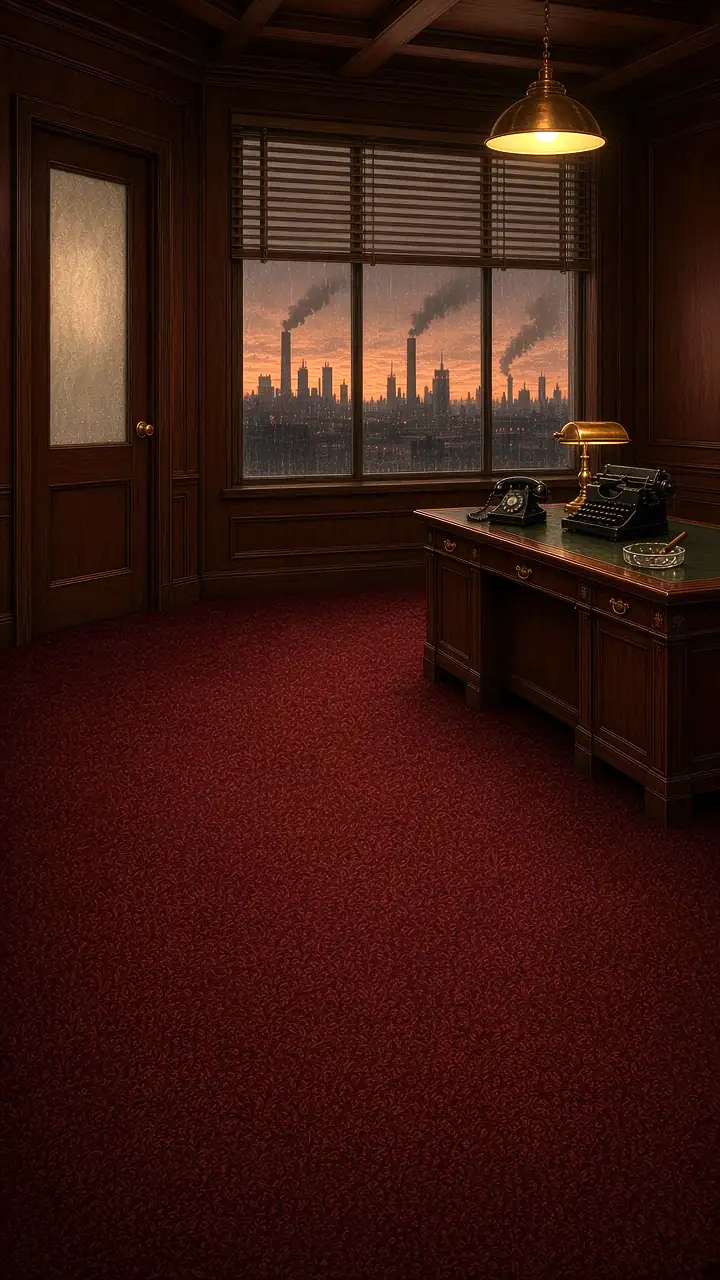
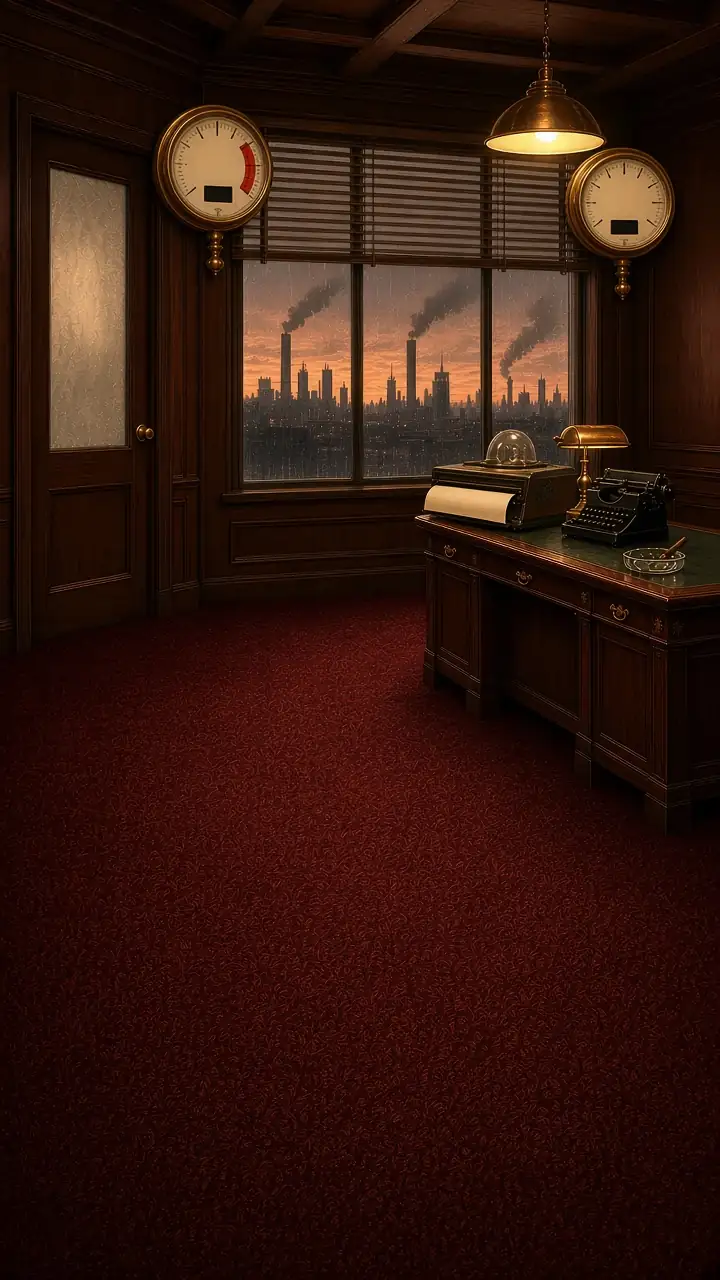
Deploy: meters painted into the office — brass gauge/barometer/ticker (1978), LCD/LED/terminal (2008), inset glass (Today) with live needles and figures; stand points clear the meters; lore: mahogany corner office (source 500517a)

diff --git a/index.html b/index.html
@@ -5297,8 +5297,7 @@ body.era-1 .sr-phone.ringing, body.era-2 .sr-phone.ringing { background: linear-
   .desk .office .of-room.o4 { height: clamp(140px, calc(var(--app-h, 100dvh) * 0.17), 250px) !important; }
 }
 
-/* ===== Office 40s polish: the meters are fixtures painted into the room, one look per era =====
-   size tier from office.js: data-o4sz s (phone strip) / m (tablet strip) / l (side panel). Units are em of the fixture. */
+/* ===== Office 40s polish: per-executive props, door plaque =====
 .o4-prop { position: absolute; width: auto; pointer-events: none; filter: drop-shadow(0 3px 0 rgba(0, 0, 0, .35)); }
 .o4-plaque { position: absolute; display: flex; flex-direction: column; align-items: center; justify-content: center; text-align: center; pointer-events: none; overflow: hidden; line-height: 1.05; }
 .o4-plaque b { font: 800 22px/1.05 var(--font-serif, Georgia, serif); letter-spacing: .04em; text-transform: uppercase; white-space: nowrap; }
@@ -5313,86 +5312,77 @@ body.era-1 .sr-phone.ringing, body.era-2 .sr-phone.ringing { background: linear-
 .o4-stage.o4-open .o4-plaque { opacity: 0; }
 
 /* shared fixture reset */
-.office .of-room.o4 .of-g.of-g { font-size: 10px; display: block !important; padding: 0 !important; border: 0 !important; border-radius: 0 !important; background: none !important; box-shadow: none !important; animation: none !important; min-width: 0; column-gap: 0; }
-.office .of-room.o4[data-o4sz="m"] .of-g.of-g { font-size: 12px; }
-.office .of-room.o4[data-o4sz="l"] .of-g.of-g { font-size: 13px; }
-.office .of-room.o4 .of-g .m-lab { position: absolute; display: block !important; white-space: nowrap; pointer-events: none; }
-.office .of-room.o4 .of-g .m-lab .tok, .office .of-room.o4 .of-g .m-lab > i { display: none; }
-.office .of-room.o4 .of-g .m-name { display: inline !important; font: 800 .62em/1 var(--font-sans, Helvetica, Arial, sans-serif) !important; letter-spacing: .12em; text-transform: uppercase; }
-.office .of-room.o4 .of-g .m-val { display: block; text-align: center; text-shadow: none !important; }
-.office .of-room.o4 .of-g .m-bar { display: block !important; position: absolute; margin: 0; overflow: hidden; }
-.office .of-room.o4 .of-g .m-sub { display: none !important; }
-.office .of-room.o4 .of-g .m-pop { z-index: 2; }
-.office .of-room.o4[data-o4sz="s"] .of-g .m-name { font-size: .55em !important; letter-spacing: .06em; }
 
 /* ---- 1978: brass, enamel and paper ---- */
 /* unrest: a round brass pressure dial on the wall by the door, needle at the value, red sector past 60 */
-.office .of-room.o4[data-o4era="1"] .of-g.m-unrest { width: 4.4em; height: 4.4em; border-radius: 50% !important; border: .32em solid #b98a2e !important;
   background: radial-gradient(circle at 50% 50%, #2a1a0c 0 .28em, transparent .3em), repeating-conic-gradient(from -120deg, #3a2a18 0 1.2deg, transparent 1.2deg 24deg) , conic-gradient(from -120deg, transparent 0 144deg, rgba(190, 40, 20, .75) 144deg 240deg, transparent 240deg), radial-gradient(circle at 40% 35%, #fffaf0, #eadfc2 70%, #cdbb8e) !important;
   -webkit-mask: none; box-shadow: 0 0 0 .1em #5c3f10, .18em .22em 0 rgba(0, 0, 0, .45), inset 0 0 .3em rgba(0, 0, 0, .35) !important; }
-.office .of-room.o4[data-o4era="1"] .of-g.m-unrest .m-bar { left: calc(50% - .07em); bottom: 50%; width: .14em; height: 1.55em; border-radius: .1em; background: #8a1a0e; transform-origin: 50% 100%; transform: rotate(calc(var(--v, 0) * 2.4deg - 120deg)); transition: transform .9s cubic-bezier(.3, 1.6, .5, 1); overflow: visible; }
-.office .of-room.o4[data-o4era="1"] .of-g.m-unrest .m-bar span { display: none; }
-.office .of-room.o4[data-o4era="1"] .of-g.m-unrest .m-val { position: absolute; left: 50%; bottom: .32em; transform: translateX(-50%); padding: .04em .22em; background: #1d140c; color: #fff4d6 !important; border-radius: .12em; font: 800 1.12em/1 ui-monospace, "SF Mono", Menlo, monospace !important; }
-.office .of-room.o4[data-o4era="1"] .of-g.m-unrest .m-lab { left: 50%; top: 100%; transform: translate(-50%, .2em); padding: .08em .35em; background: linear-gradient(#e7c56a, #a97b25); color: #2a1a06 !important; border-radius: .15em; box-shadow: .1em .1em 0 rgba(0, 0, 0, .4); }
-.office .of-room.o4[data-o4era="1"][data-o4sz="s"] .of-g.m-unrest .m-lab { display: none !important; }
-.office .of-room.o4[data-o4era="1"] .of-g.m-unrest.lvl-danger .m-val { color: #ff9b7e !important; }
 /* collapse: a brass barometer plate screwed to the window frame: drum counter + mercury tube */
-.office .of-room.o4[data-o4era="1"] .of-g.m-collapse { width: 6.6em; height: 2.7em; border-radius: .35em !important; border: .12em solid #5c3f10 !important;
   background: radial-gradient(circle at .35em .35em, #5c3f10 .1em, transparent .12em), radial-gradient(circle at calc(100% - .35em) .35em, #5c3f10 .1em, transparent .12em), linear-gradient(180deg, #f0d585, #c8973a 55%, #9c6e22) !important; box-shadow: .15em .2em 0 rgba(0, 0, 0, .45) !important; }
-.office .of-room.o4[data-o4era="1"] .of-g.m-collapse .m-lab { left: .55em; top: .3em; color: #3a2606 !important; }
-.office .of-room.o4[data-o4era="1"] .of-g.m-collapse .m-val { position: absolute; right: .45em; top: .25em; min-width: 1.9em; padding: .05em .2em; background: linear-gradient(180deg, #000, #2a221a 50%, #000); color: #fff4d6 !important; border-radius: .1em; font: 800 1.15em/1 ui-monospace, "SF Mono", Menlo, monospace !important; }
-.office .of-room.o4[data-o4era="1"] .of-g.m-collapse .m-bar { left: .55em; right: .55em; bottom: .38em; height: .42em; border-radius: .25em; background: linear-gradient(180deg, #fffdf2, #d9d2bd) !important; box-shadow: inset 0 0 0 .06em #5c3f10; }
-.office .of-room.o4[data-o4era="1"] .of-g.m-collapse .m-bar span { background: linear-gradient(180deg, #ff6a50, #a8140a) !important; border-radius: .25em; }
-.office .of-room.o4[data-o4era="1"][data-o4sz="s"] .of-g.m-collapse .m-lab { top: .38em; }
 /* cash: a stock-ticker dome feeding paper tape across the desk */
-.o4-tick { position: absolute; z-index: 7; pointer-events: none; white-space: nowrap; font-size: 10px; }
-.of-room[data-o4sz="m"] .o4-tick { font-size: 12px; } .of-room[data-o4sz="l"] .o4-tick { font-size: 13px; }
-.o4-tick b { display: block; font: 800 1.25em/1 ui-monospace, "SF Mono", Menlo, monospace; }
-.of-room[data-o4era="1"] .o4-tick { padding: .18em .5em .18em 1.9em; background: linear-gradient(180deg, #fffbea, #efe3bf); color: #1d140c; transform: rotate(-2.5deg); border-radius: .1em; box-shadow: .14em .18em 0 rgba(0, 0, 0, .45);
   -webkit-mask: linear-gradient(90deg, #000 calc(100% - .35em), transparent calc(100% - .35em)), repeating-linear-gradient(180deg, #000 0 .25em, transparent .25em .4em); -webkit-mask-composite: source-over; }
-.of-room[data-o4era="1"] .o4-tick::before { content: ""; position: absolute; left: .12em; top: 50%; width: 1.5em; height: 1.5em; transform: translateY(-50%); border-radius: 50% 50% .25em .25em; background: radial-gradient(circle at 35% 30%, rgba(255, 255, 255, .85) 0 .15em, transparent .3em), radial-gradient(circle at 50% 60%, #6a4a1c, #2b1d0c); box-shadow: 0 0 0 .12em #c8973a; }
-.of-room[data-o4era="1"] .o4-tick.low { color: #a3170b; }
 
 /* ---- 2008: plastic bezels, LCD and LED ---- */
-.office .of-room.o4[data-o4era="2"] .of-g.m-unrest { width: 4.3em; height: 3.4em; border-radius: .3em !important; border: .12em solid #1a1d20 !important; background: linear-gradient(180deg, #4a5056, #2a2e32) !important; box-shadow: inset 0 .08em 0 rgba(255, 255, 255, .2), .15em .2em 0 rgba(0, 0, 0, .45) !important; }
-.office .of-room.o4[data-o4era="2"] .of-g.m-unrest .m-lab { left: 0; right: 0; top: .22em; text-align: center; color: #d8dde2 !important; }
-.office .of-room.o4[data-o4era="2"] .of-g.m-unrest .m-val { position: absolute; left: .35em; right: .35em; top: 1em; padding: .05em 0; background: linear-gradient(180deg, #a9bf90, #8ea877); color: #15200c !important; border-radius: .1em; box-shadow: inset 0 0 0 .06em #1a1d20; font: 700 1.25em/1 "Courier New", ui-monospace, monospace !important; letter-spacing: .04em; }
-.office .of-room.o4[data-o4era="2"] .of-g.m-unrest .m-bar, .office .of-room.o4[data-o4era="2"] .of-g.m-collapse .m-bar { left: .35em; right: .35em; bottom: .3em; height: .32em; background: repeating-linear-gradient(90deg, #15181a 0 .42em, transparent .42em .52em) !important; border-radius: 0; }
-.office .of-room.o4[data-o4era="2"] .of-g .m-bar span { background: repeating-linear-gradient(90deg, #ffb12e 0 .42em, transparent .42em .52em) !important; border-radius: 0; }
-.office .of-room.o4[data-o4era="2"] .of-g.lvl-danger .m-bar span { background: repeating-linear-gradient(90deg, #ff3b22 0 .42em, transparent .42em .52em) !important; }
-.office .of-room.o4[data-o4era="2"] .of-g.m-unrest.lvl-danger .m-val { animation: o4lcd 1s steps(1) infinite; }
 @keyframes o4lcd { 50% { color: rgba(21, 32, 12, .25); } }
-.office .of-room.o4[data-o4era="2"] .of-g.m-collapse { width: 6.4em; height: 2.5em; border-radius: .2em !important; border: .12em solid #000 !important; background: repeating-linear-gradient(0deg, rgba(255, 255, 255, .04) 0 .1em, transparent .1em .2em), #0b0c0d !important; box-shadow: .15em .2em 0 rgba(0, 0, 0, .45), 0 0 0 .1em #5a6168 !important; }
-.office .of-room.o4[data-o4era="2"] .of-g.m-collapse .m-lab { left: .4em; top: .38em; color: #ffb12e !important; text-shadow: 0 0 .3em rgba(255, 170, 40, .6); }
-.office .of-room.o4[data-o4era="2"] .of-g.m-collapse .m-val { position: absolute; right: .4em; top: .18em; color: #ff4a2a !important; font: 700 1.3em/1 "Courier New", ui-monospace, monospace !important; text-shadow: 0 0 .35em rgba(255, 60, 30, .8) !important; }
-.office .of-room.o4[data-o4era="2"] .of-g.m-collapse .m-bar { bottom: .28em; }
-.of-room[data-o4era="2"] .o4-tick { padding: .3em .55em; background: repeating-linear-gradient(0deg, rgba(255, 255, 255, .05) 0 .1em, transparent .1em .22em), #0c0a06; color: #ffb12e; border: .14em solid #3d4247; border-radius: .25em; text-shadow: 0 0 .35em rgba(255, 170, 40, .7); box-shadow: .14em .18em 0 rgba(0, 0, 0, .45); }
-.of-room[data-o4era="2"] .o4-tick b { font-family: "Courier New", ui-monospace, monospace; font-weight: 700; }
-.of-room[data-o4era="2"] .o4-tick.low { color: #ff4a2a; }
 
 /* ---- Today: emerald glass and gold light ---- */
-.office .of-room.o4[data-o4era="3"] .of-g.m-unrest, .office .of-room.o4[data-o4era="3"] .of-g.m-collapse { border-radius: .45em !important; border: .08em solid rgba(240, 205, 120, .85) !important; background: linear-gradient(160deg, rgba(30, 80, 64, .55), rgba(8, 30, 24, .45)) !important; -webkit-backdrop-filter: blur(2px); backdrop-filter: blur(2px); box-shadow: 0 0 .7em rgba(240, 205, 120, .35), inset 0 0 .5em rgba(160, 255, 220, .18) !important; }
-.office .of-room.o4[data-o4era="3"] .of-g.m-unrest { width: 4em; height: 3.3em; }
-.office .of-room.o4[data-o4era="3"] .of-g.m-collapse { width: 6.2em; height: 2.4em; }
-.office .of-room.o4[data-o4era="3"] .of-g .m-lab { color: #f3dc98 !important; }
-.office .of-room.o4[data-o4era="3"] .of-g.m-unrest .m-lab { left: 0; right: 0; top: .3em; text-align: center; }
-.office .of-room.o4[data-o4era="3"] .of-g.m-unrest .m-val { position: absolute; left: 0; right: 0; top: .95em; color: #fff3cf !important; font: 300 1.55em/1 var(--font-sans, Helvetica, Arial, sans-serif) !important; text-shadow: 0 0 .4em rgba(240, 205, 120, .9) !important; }
-.office .of-room.o4[data-o4era="3"] .of-g.m-collapse .m-lab { left: .5em; top: .45em; }
-.office .of-room.o4[data-o4era="3"] .of-g.m-collapse .m-val { position: absolute; right: .5em; top: .2em; color: #fff3cf !important; font: 300 1.5em/1 var(--font-sans, Helvetica, Arial, sans-serif) !important; text-shadow: 0 0 .4em rgba(240, 205, 120, .9) !important; }
-.office .of-room.o4[data-o4era="3"] .of-g .m-bar { left: .5em; right: .5em; bottom: .35em; height: .14em; border-radius: .1em; background: rgba(240, 205, 120, .22) !important; }
-.office .of-room.o4[data-o4era="3"] .of-g .m-bar span { background: linear-gradient(90deg, #9fffe0, #f3d27a) !important; box-shadow: 0 0 .4em #f3d27a; }
-.office .of-room.o4[data-o4era="3"] .of-g.lvl-danger .m-val { color: #ffb0a0 !important; text-shadow: 0 0 .45em rgba(255, 80, 60, .95) !important; }
-.office .of-room.o4[data-o4era="3"] .of-g.lvl-danger .m-bar span { background: linear-gradient(90deg, #ff9a6a, #ff3b2e) !important; box-shadow: 0 0 .4em #ff3b2e; }
-.of-room[data-o4era="3"] .o4-tick { padding: .25em .6em; color: #fff3cf; border-radius: .4em; background: linear-gradient(180deg, rgba(240, 205, 120, .28), rgba(240, 205, 120, .06)); border: .08em solid rgba(240, 205, 120, .8); text-shadow: 0 0 .45em rgba(240, 205, 120, .95); box-shadow: 0 0 .8em rgba(240, 205, 120, .35); }
-.of-room[data-o4era="3"] .o4-tick::after { content: ""; position: absolute; left: 20%; right: 20%; top: 100%; height: .7em; background: linear-gradient(180deg, rgba(240, 205, 120, .35), transparent); clip-path: polygon(0 0, 100% 0, 70% 100%, 30% 100%); }
-.of-room[data-o4era="3"] .o4-tick b { font-family: var(--font-sans, Helvetica, Arial, sans-serif); font-weight: 400; }
-.of-room[data-o4era="3"] .o4-tick.low { color: #ffb0a0; text-shadow: 0 0 .45em rgba(255, 80, 60, .95); }
-@media (prefers-reduced-motion: reduce) { .office .of-room.o4 .of-g .m-bar { transition: none !important; } .office .of-room.o4 .of-g .m-val { animation: none !important; } }
+/* the plate paints its own view; the legacy window art must not show through the O4 glass */
+
+/* ===== Painted meters: the housings are part of the room plate; only the live needle, number and fill are drawn here, in plate pixels
+   (office.js lays each face onto its painted screen with a matrix3d, so it shares the plate's perspective and is covered by whoever walks past) */
+.o4-face { position: absolute; left: 0; top: 0; transform-origin: 0 0; pointer-events: none; z-index: 2; --v: 0; }
+.o4-face .o4-scr { position: absolute; inset: 0; overflow: hidden; }
+.o4-face .o4-num { position: absolute; white-space: nowrap; line-height: 1; font-variant-numeric: tabular-nums; }
+.o4-face .o4-lab { position: absolute; white-space: nowrap; line-height: 1; letter-spacing: .08em; }
+.o4-face .o4-bar { position: absolute; overflow: hidden; } .o4-face .o4-bar i { position: absolute; left: 0; top: 0; bottom: 0; width: calc(var(--v) * 1%); transition: width .9s ease; }
+.o4-face .o4-ndl { display: none; }
+/* quads: label top-left, figure centred, fill along the bottom */
+.o4-face.quad .o4-num { left: 0; right: 0; top: 50%; transform: translateY(-46%); text-align: center; font-size: min(calc(var(--h) * .56), calc(var(--w) * .34)); }
+.o4-face.quad .o4-lab { left: 6%; top: 7%; font-size: max(9px, calc(var(--h) * .15)); }
+.o4-face.quad .o4-bar { left: 6%; right: 6%; bottom: 8%; height: max(3px, calc(var(--h) * .08)); }
+.o4-face.o4-fC.quad .o4-lab { top: 50%; transform: translateY(-50%); font-size: max(9px, calc(var(--h) * .2)); }
+.o4-face.o4-fC.quad .o4-num { left: auto; right: 5%; text-align: right; font-size: calc(var(--h) * .62); }
+.o4-face.o4-fC.quad .o4-bar { bottom: 6%; height: max(2px, calc(var(--h) * .06)); }
+.o4-face.o4-fK .o4-lab, .o4-face.o4-fK .o4-bar { display: none; }
+.o4-face.o4-fK.quad .o4-num { font-size: min(calc(var(--h) * .62), calc(var(--w) * .3)); }
+/* 1978 brass: a needle over the cream dial, the figure inked on the face; the ticker types cash on its tape */
+.o4-face.dial .o4-scr { border-radius: 50%; }
+.o4-face.dial .o4-ndl { display: block; position: absolute; left: calc(50% - 3px); bottom: 50%; width: 6px; height: calc(var(--r) * .8); border-radius: 3px 3px 1px 1px;
+  background: linear-gradient(90deg, #120b05, #3a2716 55%, #120b05); transform-origin: 50% 100%; transform: rotate(calc(var(--v) * 2.6deg - 130deg));
+  transition: transform 1s cubic-bezier(.3, 1.35, .5, 1); box-shadow: 2px 3px 2px rgba(40, 20, 0, .35); z-index: 2; }
+.o4-face.dial .o4-scr::after { content: ""; position: absolute; left: calc(50% - var(--r) * .11); top: calc(50% - var(--r) * .11); width: calc(var(--r) * .22); height: calc(var(--r) * .22); border-radius: 50%;
+  background: radial-gradient(circle at 35% 30%, #f6dc8e, #a8741f 60%, #5c3a0c); box-shadow: 1px 2px 2px rgba(0, 0, 0, .45); z-index: 3; }
+.o4-face.dial .o4-num { left: 0; right: 0; top: 13%; text-align: center; font: 800 calc(var(--r) * .76)/1 var(--font-serif, Georgia, serif); color: #2b1a0b; text-shadow: 0 0 2px #f3e6c4, 0 0 4px #f3e6c4, 0 0 6px rgba(243, 230, 196, .8); z-index: 4; }
+.o4-face.dial .o4-lab, .o4-face.dial .o4-bar { display: none; }
+.o4-face.dial.lvl-warn .o4-num { color: #7a3d06; } .o4-face.dial.lvl-danger .o4-num { color: #a3170b; }
+.o4-face.dial.lvl-danger .o4-ndl { background: linear-gradient(90deg, #5a0a04, #b2200e 55%, #5a0a04); }
+.o4-stage[data-era="1"] .o4-fK .o4-num { font-family: "Courier New", ui-monospace, monospace; font-weight: 700; color: #241509; text-shadow: 0 0 1px rgba(36, 21, 9, .5); }
+.o4-stage[data-era="1"] .o4-fK.lvl-danger .o4-num { color: #a3170b; }
+/* 2008: LCD wall panel (dark segments), red LED strip in the window rail, amber desk terminal */
+.o4-stage[data-era="2"] .o4-fU .o4-num { font: 700 min(calc(var(--h) * .56), calc(var(--w) * .34))/1 "Courier New", ui-monospace, monospace; color: #b8f0c8; text-shadow: 0 0 6px rgba(120, 255, 170, .55); }
+.o4-stage[data-era="2"] .o4-fU .o4-lab { color: #8fd6a6; font-family: var(--font-sans, Helvetica, Arial, sans-serif); font-weight: 700; }
+.o4-stage[data-era="2"] .o4-fU .o4-bar i { background: repeating-linear-gradient(90deg, #7dffa8 0 8px, transparent 8px 11px); box-shadow: 0 0 6px rgba(120, 255, 170, .6); }
+.o4-stage[data-era="2"] .o4-fC .o4-num { font: 700 calc(var(--h) * .62)/1 "Courier New", ui-monospace, monospace; color: #ff4a2a; text-shadow: 0 0 6px rgba(255, 60, 30, .85), 0 0 14px rgba(255, 60, 30, .4); }
+.o4-stage[data-era="2"] .o4-fC .o4-lab { color: #ffb12e; font-family: var(--font-sans, Helvetica, Arial, sans-serif); font-weight: 700; text-shadow: 0 0 5px rgba(255, 170, 40, .7); }
+.o4-stage[data-era="2"] .o4-fC .o4-bar { right: 42%; } .o4-stage[data-era="2"] .o4-fC .o4-bar i { background: repeating-linear-gradient(90deg, #ffb12e 0 6px, transparent 6px 9px); }
+.o4-stage[data-era="2"] .o4-fK .o4-num { font-family: "Courier New", ui-monospace, monospace; font-weight: 700; color: #ffc04a; text-shadow: 0 0 6px rgba(255, 180, 60, .8); }
+.o4-stage[data-era="2"] .o4-face.lvl-danger .o4-num { color: #ff4a2a; text-shadow: 0 0 7px rgba(255, 60, 30, .9); animation: o4lcd 1s steps(1) infinite; }
+.o4-stage[data-era="2"] .o4-face.lvl-danger .o4-bar i { background: repeating-linear-gradient(90deg, #ff3b22 0 8px, transparent 8px 11px); }
+/* Today: light living in the glass — warm white figures, gold labels, a thin mint-to-gold fill */
+.o4-stage[data-era="3"] .o4-face .o4-num { font-family: var(--font-sans, Helvetica, Arial, sans-serif); font-weight: 300; color: #fff6d8; text-shadow: 0 0 8px rgba(255, 225, 150, .8), 0 0 2px rgba(0, 0, 0, .5); }
+.o4-stage[data-era="3"] .o4-face .o4-lab { color: #f3d27a; font-family: var(--font-sans, Helvetica, Arial, sans-serif); font-weight: 600; text-shadow: 0 0 5px rgba(243, 210, 122, .6); }
+.o4-stage[data-era="3"] .o4-face .o4-bar { background: rgba(255, 255, 255, .1); border-radius: 2px; } .o4-stage[data-era="3"] .o4-face .o4-bar i { background: linear-gradient(90deg, #9fffe0, #f3d27a); box-shadow: 0 0 6px rgba(159, 255, 224, .8); }
+.o4-stage[data-era="3"] .o4-fU .o4-lab { left: 0; right: 0; text-align: center; font-size: calc(var(--w) * .15); }
+.o4-stage[data-era="3"] .o4-face.lvl-danger .o4-num { color: #ffc0b0; text-shadow: 0 0 9px rgba(255, 80, 60, .95); } .o4-stage[data-era="3"] .o4-face.lvl-danger .o4-bar i { background: linear-gradient(90deg, #ff9a6a, #ff3b2e); }
+.o4-face .o4-scr { mix-blend-mode: normal; }
 /* the plate paints its own view; the legacy window art must not show through the O4 glass */
 .of-room.o4 .o4-glass.of-glass { background: none !important; filter: none !important; border-radius: 0; }
-.office .of-room.o4 .of-g.o4-under, .of-room.o4 .o4-tick.o4-under { opacity: .5 !important; }
-.office .of-room.o4 .of-g, .of-room.o4 .o4-tick { transition: opacity .25s; }
-.of-room[data-o4era="1"] .o4-tick { padding-right: .85em; }
+/* the real meters: invisible hit areas over the painted faces (tap / focus for the tooltip; screen readers read them) */
+.office .of-room.o4 .meter.o4-hit { position: absolute !important; z-index: 8; background: none !important; border: 0 !important; box-shadow: none !important; padding: 0 !important; margin: 0 !important; min-width: 0 !important; min-height: 0 !important; border-radius: 8px !important; cursor: help; }
+.office .of-room.o4 .meter.o4-hit > * { visibility: hidden !important; }
+.office .of-room.o4 .meter.o4-hit:focus-visible { outline: 2px solid #f3d27a; outline-offset: 1px; }
+@media (prefers-reduced-motion: reduce) { .o4-face .o4-ndl, .o4-face .o4-bar i { transition: none !important; } .o4-face .o4-num { animation: none !important; } }
+.o4-stage[data-era="1"] .o4-fK .o4-num, .o4-stage[data-era="2"] .o4-fK .o4-num { letter-spacing: -.06em; }
 </style>
   <script>
   /* Visible viewport height: prefer visualViewport so a Safari toolbar
@@ -13982,11 +13972,14 @@ body.era-1 .sr-phone.ringing, body.era-2 .sr-phone.ringing { background: linear-
   var OFX_FAR = { senate: 1, crash: 1, keys: 1 };
   var OFX_VEH = { car: [1, 2, 3].map(function (e) { return '<img src="assets/office/veh-car-e' + e + '.webp" alt="" draggable="false">'; }),
     air: [1, 2, 3].map(function (e) { return '<img src="assets/office/veh-air-e' + e + '.webp" alt="" draggable="false">'; }) };
+  /* full-body door poses (the fight art is framed to the old 3/4 crop for some opponents) */
+  /* Milestone B: full-body door art per opponent (opp-<id>-door.webp). Held until the restyled opponents ship; empty = door scene uses the idle art. */
+  var OPP_DOOR = {}; /* Milestone B list: "ashby benny brennan crowe dana delacroix dunn gil grace gray hale harrow honoria june mickey mina moretti odell okafor pip pops rosa sorel theo ticker varga" */
   LD.officeEntrance = function (state) {
     var fg = state && state.fy && state.fy.fight; if (!fg) return null;
     var F = LD.fightFace(fg), venue = LD.fightVenue(fg), era = Math.max(1, Math.min(3, LD.eraOf ? LD.eraOf(state) : 3));
     var away = venue === "away", air = away && !!OFX_FAR[F.room];
-    return { away: away, air: air, era: era, who: F.who, place: F.place || "", opp: "assets/fight/opp-" + F.art + "-idle.webp", ar: F.ar || ART_AR[F.art] || 0.6,
+    return { away: away, air: air, era: era, who: F.who, place: F.place || "", opp: "assets/fight/opp-" + F.art + (OPP_DOOR[F.art] ? "-door" : "-idle") + ".webp", ar: F.ar || ART_AR[F.art] || 0.6,
       veh: away ? OFX_VEH[air ? "air" : "car"][era - 1] : "", back: "assets/fight/back-" + execArt(state.executiveId) + ".webp" };
   };
   /* The Gallery: a 7-notch crowd meter between you and them. */
@@ -14247,31 +14240,34 @@ body.era-1 .sr-phone.ringing, body.era-2 .sr-phone.ringing { background: linear-
   if (typeof document === "undefined") return;
   var BASE = "assets/office40/";
   /* Plate geometry, in plate pixels. L = 1280x720 (wide boxes), P = 720x1280 (tall side panels). */
+  /* The meters are painted into each plate (a wall gauge / panel by the door, a gauge / readout in the window frame, a ticker / terminal / glass on the desk).
+     Painted faces in plate pixels: dial = [cx, cy, r] + counter window; quad = TL, TR, BR, BL of the screen. Code draws only the live needle, number and fill. */
+  var FACES = {"e1-L":{"U":{"dial":[345.6,109.3,64.5],"win":[326.6,131.0,365.6,153.1]},"C":{"dial":[809.7,234.0,60.0],"win":[790.6,255.0,829.6,276.0]},"K":{"quad":[[697.2,345.0],[832.2,342.5],[832.2,392.5],[697.2,395.0]]}},"e1-P":{"U":{"dial":[219.4,172.4,44.6],"win":[204.0,186.0,232.0,203.0]},"C":{"dial":[621.8,205.2,36.0],"win":[611.0,220.0,638.0,234.0]},"K":{"quad":[[428.0,486.0],[511.0,485.0],[511.0,513.0],[428.0,514.0]]}},"e2-L":{"U":{"quad":[[318.6,72.3],[441.0,72.3],[441.0,147.9],[318.6,147.9]]},"C":{"quad":[[541.7,73.6],[777.0,73.6],[777.0,123.0],[541.7,123.0]]},"K":{"quad":[[677.9,285.4],[778.0,285.4],[778.0,347.8],[675.3,347.8]]}},"e2-P":{"U":{"quad":[[224.0,109.0],[317.0,109.0],[317.0,165.0],[224.0,165.0]]},"C":{"quad":[[360.0,99.0],[512.0,99.0],[512.0,146.0],[360.0,146.0]]},"K":{"quad":[[370.8,406.0],[459.2,406.0],[459.2,455.5],[370.8,455.5]]}},"e3-L":{"U":{"quad":[[289.9,69.5],[357.2,79.6],[360.2,195.0],[291.9,184.0]]},"C":{"quad":[[532.7,51.4],[785.2,53.5],[784.0,108.9],[534.4,103.7]]},"K":{"quad":[[704.9,313.2],[805.4,314.5],[788.9,368.8],[688.0,363.4]]}},"e3-P":{"U":{"quad":[[66.0,58.0],[155.0,84.0],[160.0,158.0],[67.0,131.0]]},"C":{"quad":[[302.4,113.5],[486.0,115.0],[485.0,169.0],[303.0,164.0]]},"K":{"quad":[[431.6,522.0],[498.4,528.0],[490.3,566.8],[421.5,560.7]]}}};
   var ROOMS = {
     "e1-L": { w: 1280, h: 720, hk: [0.72, 0], door: [81, 37, 188, 475], glass: [406, 181, 375, 181],
       occ: [[690, 372], [1280, 386], [1280, 650], [1120, 668], [950, 612], [700, 578]], deskY: 545, tick: [800, 445],
-      mu: [335, 225], mc: [520, 362], pr: [738, 392, 112], pl: [38, 92, 112, 72],
-      S: { door: [330, 545], desk: [930, 538], deskEntry: [640, 525], window: [600, 495], hatch: [470, 600], hatchAp: [320, 612], p1: [380, 600], p2: [640, 612], opp: [178, 512], oppIn: [270, 540] } },
+      mu: [335, 225], mc: [520, 362], pr: [1212, 402, 100], pl: [38, 92, 112, 72],
+      S: { door: [330, 545], desk: [945, 538], deskEntry: [640, 525], window: [600, 495], hatch: [470, 600], hatchAp: [320, 612], p1: [380, 600], p2: [585, 612], opp: [178, 512], oppIn: [270, 540] } },
     "e2-L": { w: 1280, h: 720, hk: [0.745, 0], door: [50, 25, 244, 531], glass: [344, 56, 531, 388],
       occ: [[655, 336], [1000, 352], [1215, 400], [1215, 600], [1060, 640], [960, 645], [690, 550]], deskY: 560, tick: [830, 458],
-      mu: [318, 250], mc: [500, 444], pr: [712, 350, 96], pl: [40, 175, 165, 64],
-      S: { door: [350, 590], desk: [850, 555], deskEntry: [600, 545], window: [560, 520], hatch: [455, 608], hatchAp: [300, 620], p1: [380, 612], p2: [640, 622], opp: [172, 556], oppIn: [260, 580] } },
+      mu: [318, 250], mc: [500, 444], pr: [1168, 405, 80], pl: [40, 175, 165, 64],
+      S: { door: [350, 590], desk: [850, 555], deskEntry: [600, 545], window: [560, 520], hatch: [455, 608], hatchAp: [300, 620], p1: [380, 612], p2: [555, 622], opp: [172, 556], oppIn: [260, 580] } },
     "e3-L": { w: 1280, h: 720, hk: [0.70, 0], door: [106, 50, 169, 431], glass: [369, 31, 493, 381],
       occ: [[675, 360], [1210, 385], [1210, 560], [1000, 590], [700, 480]], deskY: 520, tick: [850, 435],
-      mu: [322, 230], mc: [500, 396], pr: [728, 376, 92], pl: [30, 118, 110, 40],
-      S: { door: [330, 515], desk: [900, 515], deskEntry: [620, 505], window: [600, 470], hatch: [455, 592], hatchAp: [310, 604], p1: [360, 590], p2: [640, 600], opp: [190, 481], oppIn: [270, 505] } },
+      mu: [322, 230], mc: [500, 396], pr: [1160, 392, 84], pl: [30, 118, 110, 40],
+      S: { door: [442, 530], desk: [900, 515], deskEntry: [620, 505], window: [600, 470], hatch: [455, 592], hatchAp: [310, 604], p1: [360, 590], p2: [605, 600], opp: [190, 481], oppIn: [270, 505] } },
     "e1-P": { w: 720, h: 1280, hk: [0.62, 10], door: [12, 106, 151, 506], glass: [244, 250, 325, 212],
       occ: [[412, 503], [720, 515], [720, 820], [650, 790], [480, 705], [420, 670]], deskY: 680, tick: [520, 585],
-      mu: [190, 205], mc: [405, 252, 1], pr: [438, 508, 84], pl: [36, 88, 86, 62],
-      S: { door: [235, 650], desk: [575, 675], deskEntry: [345, 700], window: [400, 650], hatch: [330, 950], hatchAp: [160, 960], p1: [210, 830], p2: [470, 900], opp: [88, 612], oppIn: [160, 660] } },
+      mu: [190, 205], mc: [405, 252, 1], pr: [300, 484, 68], pl: [36, 88, 86, 62],
+      S: { door: [235, 650], desk: [545, 675], deskEntry: [335, 700], window: [400, 650], hatch: [330, 950], hatchAp: [160, 960], p1: [170, 830], p2: [250, 1060], opp: [88, 612], oppIn: [160, 660] } },
     "e2-P": { w: 720, h: 1280, hk: [0.66, 10], door: [25, 50, 163, 575], glass: [222, 87, 353, 425],
       occ: [[365, 478], [600, 470], [720, 490], [720, 700], [590, 728], [385, 622]], deskY: 640, tick: [480, 555],
-      mu: [200, 170], mc: [380, 102, 0], pr: [396, 492, 78], pl: [30, 175, 112, 58],
-      S: { door: [250, 670], desk: [560, 635], deskEntry: [330, 680], window: [400, 640], hatch: [330, 950], hatchAp: [160, 960], p1: [210, 830], p2: [470, 900], opp: [106, 625], oppIn: [180, 670] } },
+      mu: [200, 170], mc: [380, 102, 0], pr: [268, 522, 62], pl: [30, 175, 112, 58],
+      S: { door: [250, 670], desk: [560, 635], deskEntry: [330, 680], window: [290, 580], hatch: [330, 950], hatchAp: [160, 960], p1: [170, 830], p2: [195, 1060], opp: [106, 625], oppIn: [180, 670] } },
     "e3-P": { w: 720, h: 1280, hk: [0.60, 10], door: [19, 144, 106, 531], glass: [187, 87, 388, 513],
       occ: [[398, 560], [720, 575], [720, 790], [620, 785], [410, 700]], deskY: 720, tick: [505, 615],
-      mu: [150, 205], mc: [330, 150, 0], pr: [440, 578, 72], pl: [14, 122, 74, 30],
-      S: { door: [205, 710], desk: [585, 715], deskEntry: [330, 745], window: [390, 700], hatch: [330, 960], hatchAp: [160, 970], p1: [210, 860], p2: [470, 930], opp: [72, 675], oppIn: [140, 720] } }
+      mu: [150, 205], mc: [330, 150, 0], pr: [300, 602, 62], pl: [14, 122, 74, 30],
+      S: { door: [205, 710], desk: [585, 715], deskEntry: [330, 745], window: [390, 700], hatch: [330, 960], hatchAp: [160, 970], p1: [170, 860], p2: [250, 1070], opp: [72, 675], oppIn: [140, 720] } }
   };
   var IDS = ["mara", "reid", "julian", "cassius", "imani", "soren"];
   var SAY = {
@@ -14303,8 +14299,10 @@ body.era-1 .sr-phone.ringing, body.era-2 .sr-phone.ringing { background: linear-
     O.prop = el("img", "o4-prop", w); O.prop.alt = ""; O.prop.draggable = false;
     O.knock = el("span", "o4-knock", s);
     O.hatch = el("div", "o4-hatch", w); O.hglow = el("i", "o4-hglow", O.hatch);
-    /* cash readout on the desk: screen space so the figure stays readable on phones */
-    O.tick = el("span", "o4-tick", s); O.tickV = el("b", "", O.tick);
+    /* live faces on the painted fixtures: U (unrest) and C (collapse) on wall / window, so people pass in front; K (cash) on the desk */
+    /* the painted housing is re-laid over the window glass (the city view is its own layer) so the glass never hides a fixture */
+    O.patch = {}; ["U", "C", "K"].forEach(function (k) { O.patch[k] = el("div", "o4-occ o4-patch", w); });
+    O.face = {}; ["U", "C", "K"].forEach(function (k) { var f = el("div", "o4-face o4-f" + k, w); f.setAttribute("aria-hidden", "true"); f.innerHTML = '<span class="o4-scr"><i class="o4-ndl"></i><b class="o4-num"></b><small class="o4-lab"></small><span class="o4-bar"><i></i></span></span>'; O.face[k] = f; });
     O.occ = el("div", "o4-occ", w);
     O.ex = el("div", "o4-ex", w); O.shadow = el("i", "o4-shadow", O.ex); O.body = el("div", "o4-body", O.ex); O.spr = el("i", "o4-spr", O.body);
     O.bub = el("span", "o4-bub", s);
@@ -14331,6 +14329,7 @@ body.era-1 .sr-phone.ringing, body.era-2 .sr-phone.ringing { background: linear-
     box(O.hatch, [R.S.hatch[0] - hw / 2, R.S.hatch[1] - hh / 2 - (lay === "P" ? 30 : 0), hw, hh]);
     O.hatch.style.backgroundImage = "url(" + BASE + "hatch-" + exec + ".webp)";
     O.prop.src = BASE + "props/" + exec + "-e" + era + ".webp";
+    setFaces(FACES[rk] || {}, url);
     O.prop.style.left = R.pr[0] + "px"; O.prop.style.top = (R.pr[1] - R.pr[2]) + "px"; O.prop.style.height = R.pr[2] + "px";
     box(O.plaque, R.pl);
     var EX = LD.execById ? LD.execById(exec) : null;
@@ -14349,14 +14348,16 @@ body.era-1 .sr-phone.ringing, body.era-2 .sr-phone.ringing { background: linear-
     var W = room.clientWidth, H = room.clientHeight; if (!W || !H) return;
     var lay = W / H < 1 ? "P" : "L";
     if (O.R && O.rk.slice(-1) !== lay) { setEra(O.era, O.exec, lay); }
-    var R = O.R, s = H / R.h;
-    /* very wide strips (tablet portrait): zoom in a little, trimming ceiling and floor edge but never the desk-height head or the hatch */
-    if (lay === "L" && R.w * s < W) s = Math.min(W / R.w, H / (R.h * 0.74));
+    var R = O.R, s = H / R.h, ft = faceTop(), hb = Math.min(R.h, R.S.hatch[1] + 60);
+    /* very wide strips (tablet portrait): zoom in a little, trimming ceiling and floor edge but never the painted meters, the head or the hatch */
+    if (lay === "L" && R.w * s < W) s = Math.min(W / R.w, H / (hb - ft));
     /* wide side panels (desktop): fill the width and trim the empty floor at the bottom rather than show edge strips */
     if (lay === "P" && R.w * s < W) s = Math.min(W / R.w, H / (R.h * 0.8));
     var pw = R.w * s, ph = R.h * s, ox;
     if (pw > W) ox = lay === "P" ? -(pw - W) * 0.3 : -(pw - W) / 2; else ox = (W - pw) / 2;
     var oy = H - ph; oy = oy > 0 ? oy / 2 : oy * (lay === "P" ? 0.3 : 0.6);
+    /* the painted meters must stay in view: crop the floor rather than the ceiling band they hang in */
+    if (oy < 0 && -oy > ft * s) oy = Math.max(H - ph, -ft * s);
     O.s = s; O.ox = ox; O.oy = oy;
     O.world.style.transform = "translate(" + ox.toFixed(1) + "px," + oy.toFixed(1) + "px) scale(" + s.toFixed(4) + ")";
     var fw = Math.max(0, ox);
@@ -14371,44 +14372,64 @@ body.era-1 .sr-phone.ringing, body.era-2 .sr-phone.ringing { background: linear-
     placeMeters(room);
     draw();
   }
-  function px(v, axis) { return axis === "x" ? O.ox + v * O.s : O.oy + v * O.s; }
-  /* The meters are fixtures of the room: unrest hangs on the wall by the door, collapse is mounted on the window frame,
-     cash sits on the desk. Anchors are plate points; the fixtures stay screen-sized so the numbers read on phones. */
-  function placeMeters(room) {
-    var R = O.R, W = room.clientWidth, H = room.clientHeight;
-    var u = room.querySelector(".m-unrest"), c = room.querySelector(".m-collapse"), t = O.tick;
-    room.dataset.o4sz = H < 200 ? "s" : W < 420 && H < 420 ? "m" : H < 420 ? "m" : "l";
-    if (O.era) room.dataset.o4era = O.era;
-    var placed = [];
-    function put(m, x, y, ax, ay, setImp) {
-      if (!m) { placed.push(null); return; } var mw = m.offsetWidth || 60, mh = m.offsetHeight || 24;
-      var l = Math.max(3, Math.min(W - mw - 3, x - mw * ax)), tp = Math.max(3, Math.min(H - mh - 3, y - mh * ay));
-      /* never stack two fixtures: slide sideways off anything already placed */
-      for (var i = 0; i < placed.length; i++) { var q = placed[i]; if (!q) continue;
-        if (l < q[0] + q[2] + 4 && q[0] < l + mw + 4 && tp < q[1] + q[3] + 2 && q[1] < tp + mh + 2) {
-          var right = q[0] + q[2] + 5; l = right + mw <= W - 3 ? right : Math.max(3, q[0] - mw - 5);
-          if (l < q[0] + q[2] + 4 && q[0] < l + mw + 4) tp = Math.min(H - mh - 3, q[1] + q[3] + 4);
-        } }
-      placed.push([l, tp, mw, mh]);
-      var imp = setImp ? "important" : "";
-      m.style.setProperty("left", Math.round(l) + "px", imp); m.style.setProperty("top", Math.round(tp) + "px", imp);
-      if (setImp) { m.style.setProperty("right", "auto", "important"); m.style.setProperty("bottom", "auto", "important"); m.style.setProperty("transform", "none", "important"); }
-    }
-    put(u, px(R.mu[0], "x"), px(R.mu[1], "y"), 0.5, 0.5, true);
-    put(c, px(R.mc[0], "x"), px(R.mc[1], "y"), 0.5, R.mc[2] != null ? R.mc[2] : 0.75, true);
-    put(t, px(R.tick[0], "x"), px(R.tick[1], "y"), 0.5, 0.5, false);
-    O.fx = [u, c, t].map(function (m, i) { return m && placed[i] ? { m: m, r: placed[i] } : null; }).filter(Boolean);
-    under();
+  /* top of the highest painted meter housing (plate px), with its bezel */
+  function faceTop() {
+    var FS = FACES[O.rk] || {}, t = O.R.h;
+    ["U", "C"].forEach(function (k) { var g = FS[k]; if (!g) return; t = Math.min(t, g.dial ? g.dial[1] - g.dial[2] * 1.3 : Math.min.apply(null, g.quad.map(function (p) { return p[1]; })) - 20); });
+    return Math.max(0, t - 6);
   }
-  /* a fixture fades while the executive (or a visitor in the doorway) is behind it, so nobody is hidden by a meter */
-  function under() {
-    if (!O.fx || !O.R || !O.s) return;
-    var st = O.st, h = heightAt(st.y), rs = [];
-    /* the visible body: a little narrower than the sprite box; behind the desk only the upper half shows */
-    var behind = st.y < O.R.deskY && st.x > O.R.S.deskEntry[0] - 10, bot = behind ? st.y - h * 0.5 : st.y;
-    if (!st.hidden) rs.push([px(st.x - h * 0.15, "x"), px(st.y - h * 0.94, "y"), h * 0.3 * O.s, (bot - (st.y - h * 0.94)) * O.s]);
-    if (O.stage.classList.contains("o4-in") && O.opp.style.width) { var b = O.opp.getBoundingClientRect(), a = O.stage.getBoundingClientRect(); rs.push([b.left - a.left, b.top - a.top, b.width, b.height * 0.6]); }
-    O.fx.forEach(function (f) { var q = f.r, hit = rs.some(function (r) { return r[0] < q[0] + q[2] && q[0] < r[0] + r[2] && r[1] < q[1] + q[3] && q[1] < r[1] + r[3]; }); f.m.classList.toggle("o4-under", hit); });
+  function px(v, axis) { return axis === "x" ? O.ox + v * O.s : O.oy + v * O.s; }
+  /* rect (0,0,w,h) -> quad as a CSS matrix3d, so a face's content lies in the painting's perspective */
+  function quadMatrix(w, h, q) {
+    var x0 = q[0][0], y0 = q[0][1], x1 = q[1][0], y1 = q[1][1], x2 = q[2][0], y2 = q[2][1], x3 = q[3][0], y3 = q[3][1];
+    var dx1 = x1 - x2, dx2 = x3 - x2, dy1 = y1 - y2, dy2 = y3 - y2, sx = x0 - x1 + x2 - x3, sy = y0 - y1 + y2 - y3;
+    var g = 0, hh = 0, den = dx1 * dy2 - dx2 * dy1;
+    if (Math.abs(sx) > 1e-6 || Math.abs(sy) > 1e-6) { g = (sx * dy2 - dx2 * sy) / den; hh = (dx1 * sy - sx * dy1) / den; }
+    var a = x1 - x0 + g * x1, b = x3 - x0 + hh * x3, d = y1 - y0 + g * y1, e = y3 - y0 + hh * y3;
+    a /= w; d /= w; g /= w; b /= h; e /= h; hh /= h;
+    return "matrix3d(" + [a, d, 0, g, b, e, 0, hh, 0, 0, 1, 0, x0, y0, 0, 1].map(function (v) { return +v.toFixed(6); }).join(",") + ")";
+  }
+  function setFaces(FS, url) {
+    ["U", "C", "K"].forEach(function (k) {
+      var f = O.face[k], g = FS[k], pt = O.patch[k]; pt.style.display = f.style.display = g ? "" : "none"; if (!g) return;
+      pt.style.backgroundImage = "url(" + url + ")"; pt.style.width = O.R.w + "px"; pt.style.height = O.R.h + "px"; pt.style.zIndex = k === "K" ? 4 : 2;
+      if (g.dial) pt.style.clipPath = "circle(" + (g.dial[2] * 1.3).toFixed(1) + "px at " + g.dial[0] + "px " + g.dial[1] + "px)";
+      else { var cx = 0, cy = 0; g.quad.forEach(function (p) { cx += p[0] / 4; cy += p[1] / 4; });
+        var bw = Math.max.apply(null, g.quad.map(function (p) { return p[0]; })) - Math.min.apply(null, g.quad.map(function (p) { return p[0]; })), bh = Math.max.apply(null, g.quad.map(function (p) { return p[1]; })) - Math.min.apply(null, g.quad.map(function (p) { return p[1]; }));
+        var ex = 1 + 36 / bw, ey = 1 + 36 / bh;
+        pt.style.clipPath = "polygon(" + g.quad.map(function (p) { return (cx + (p[0] - cx) * ex).toFixed(1) + "px " + (cy + (p[1] - cy) * ey).toFixed(1) + "px"; }).join(",") + ")"; }
+      f.classList.toggle("dial", !!g.dial); f.classList.toggle("quad", !g.dial);
+      if (g.dial) {
+        f._wh = null; var r = g.dial[2]; f.style.width = f.style.height = (2 * r) + "px"; f.style.transform = "translate(" + (g.dial[0] - r) + "px," + (g.dial[1] - r) + "px)";
+        f.style.setProperty("--r", r + "px");
+      } else {
+        var q = g.quad, w = Math.round(Math.hypot(q[1][0] - q[0][0], q[1][1] - q[0][1])), h = Math.round(Math.hypot(q[3][0] - q[0][0], q[3][1] - q[0][1]));
+        f.style.width = w + "px"; f.style.height = h + "px"; f.style.transform = quadMatrix(w, h, q); f.style.setProperty("--h", h + "px"); f.style.setProperty("--w", w + "px"); f._wh = [w, h];
+      }
+    });
+  }
+  function setFace(k, val, txt, lvl, label) {
+    var f = O.face && O.face[k]; if (!f) return;
+    var n = f.querySelector(".o4-num"); n.textContent = txt;
+    /* quads: the figure takes as much of the painted screen as it can (phones), by its length */
+    if (f.classList.contains("quad") && f._wh) { var w = f._wh[0], h = f._wh[1], len = Math.max(2, txt.length), sp = k === "C" ? [0.92, 0.52, 0.62] : k === "K" ? [0.72, 0.98, 0.56] : [0.66, 0.92, 0.62];
+      n.style.fontSize = Math.min(h * sp[0], w * sp[1] / (len * sp[2])).toFixed(1) + "px"; } else n.style.fontSize = ""; f.querySelector(".o4-lab").textContent = label || "";
+    f.style.setProperty("--v", Math.max(0, Math.min(100, val)));
+    f.classList.remove("lvl-ok", "lvl-warn", "lvl-danger"); f.classList.add("lvl-" + (lvl || "ok"));
+  }
+  /* the real meters stay in the DOM for taps, focus and screen readers: an invisible hit area over each painted face */
+  function placeMeters(room) {
+    room.dataset.o4sz = room.clientHeight < 200 ? "s" : room.clientHeight < 420 ? "m" : "l";
+    if (O.era) room.dataset.o4era = O.era;
+    var a = room.getBoundingClientRect();
+    [[room.querySelector(".m-unrest"), "U"], [room.querySelector(".m-collapse"), "C"], [room.querySelector(".m-cash"), "K"]].forEach(function (p) {
+      var m = p[0], f = O.face[p[1]]; if (!m || !f || f.style.display === "none") return;
+      var b = f.getBoundingClientRect(), pad = 4;
+      m.classList.add("o4-hit");
+      m.style.setProperty("left", Math.round(b.left - a.left - pad) + "px", "important"); m.style.setProperty("top", Math.round(b.top - a.top - pad) + "px", "important");
+      m.style.setProperty("width", Math.round(b.width + 2 * pad) + "px", "important"); m.style.setProperty("height", Math.round(b.height + 2 * pad) + "px", "important");
+      m.style.setProperty("right", "auto", "important"); m.style.setProperty("bottom", "auto", "important"); m.style.setProperty("transform", "none", "important");
+    });
   }
   function frame(p) { var F = O.A && O.A.f; if (!F) return null; return F[p] || F.idle; }
   function draw() {
@@ -14423,11 +14444,10 @@ body.era-1 .sr-phone.ringing, body.era-2 .sr-phone.ringing { background: linear-
     O.ex.style.transform = "translate(" + st.x.toFixed(1) + "px," + st.y.toFixed(1) + "px)";
     O.shadow.style.width = (h * 0.32).toFixed(0) + "px"; O.shadow.style.height = (h * 0.05).toFixed(0) + "px";
     var behind = st.y < O.R.deskY && st.x > O.R.S.deskEntry[0] - 10;
-    O.ex.style.zIndex = behind ? 3 : 6; O.occ.style.zIndex = 4; O.prop.style.zIndex = 5;
+    O.ex.style.zIndex = behind ? 3 : 6; O.occ.style.zIndex = 4; O.prop.style.zIndex = 5; O.face.K.style.zIndex = 5;
     O.ex.style.opacity = st.hidden ? "0" : "";
     O.ex.dataset.pose = st.pose;
     if (O.bub.classList.contains("on")) placeBub();
-    under();
   }
   function setPose(p) { O.st.pose = p; draw(); }
   function poseFor() { return O.mood === "panic" ? "panic" : O.mood === "nervous" ? "nervous" : "idle"; }
@@ -14500,9 +14520,11 @@ body.era-1 .sr-phone.ringing, body.era-2 .sr-phone.ringing { background: linear-
     O.ex.setAttribute("aria-hidden", "true");
     room.setAttribute("aria-label", (LD.execById ? LD.execById(state.executiveId).name : "") + ", " + ({ confident: "confident", nervous: "nervous", panic: "panicking" })[O.mood]);
     /* meters on props */
-    O.tickV.textContent = LD.formatMoney ? LD.formatMoney(state.cash) : "$" + state.cash + "M";
+    var fm = LD.formatMoney || function (v) { return "$" + v + "M"; }, lv = LD.resLevel || function () { return "ok"; };
+    setFace("U", state.unrest, String(state.unrest), lv("unrest", state.unrest), "UNREST");
+    setFace("C", state.collapse, String(state.collapse), lv("collapse", state.collapse), "COLLAPSE");
+    setFace("K", Math.min(100, state.cash), fm(state.cash), lv("cash", state.cash), "");
     room.dataset.o4era = era;
-    O.tick.classList.toggle("low", state.cash < 5);
     var door = LD.doorLevel ? LD.doorLevel(state) : 0, city = LD.cityStage ? LD.cityStage(state) : 0;
     O.knock.textContent = door >= 3 ? "BANG BANG!" : door >= 2 ? "KNOCK KNOCK" : "tap tap";
     O.stage.className = "o4-stage door-" + door + " city-" + city + " mood-" + O.mood + (rm() ? " o4-rm" : "");
